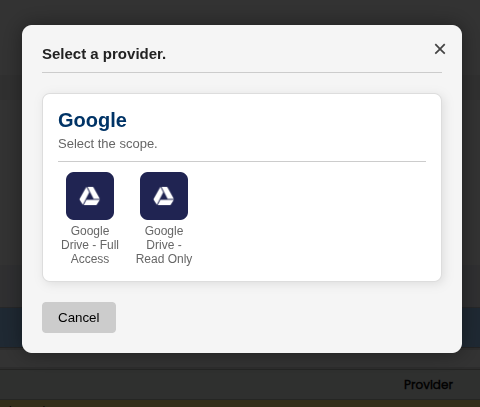
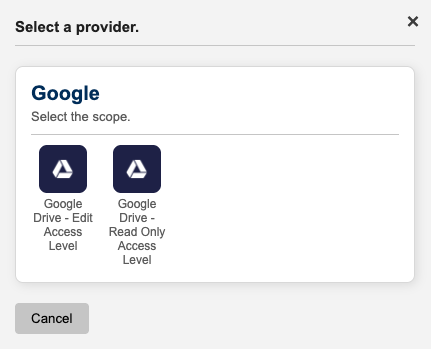
Improve Drive Scope Documentation

diff --git a/docs/developer-guide/etendo-classic/bundles/platform/etendo-rx.md b/docs/developer-guide/etendo-classic/bundles/platform/etendo-rx.md
@@ -293,19 +293,25 @@ Run the following command to compile and set up the environment:
 
 - Choose the desired **Google Drive scope**:
 
-    ![Select Provider Scope](../../../../assets/developer-guide/etendo-classic/bundles/platform/etendo-rx/DriveScopeSelection.png)
+    ![Drive Scope Selection](../../../../assets/developer-guide/etendo-classic/bundles/platform/etendo-rx/DriveScopeSelection.png)
 
-    - **Google Drive – Full Access**
+    - **Google Drive – Edit Access Level**
     
         Grants the app permission to **create, update, delete, and manage** files created through the Etendo.  
+
+        !!! warning 
+            Only files with **Edit** access level will be accessible.  
     
         !!!warning
             With this scope, the app can only manage files that were created from Etendo or explicitly opened with it.
 
-    - **Google Drive – Read Only**
+    - **Google Drive – Read Only Access Level**
 
         Grants the app permission to **read existing files** in the user’s account (including files not created by Etendo).  
         No modifications are allowed — only reading file information or content.
+
+        !!! warning 
+            Only files with **Read Only** access level will be accessible.
 
 - Accept Google’s consent screen.
 
